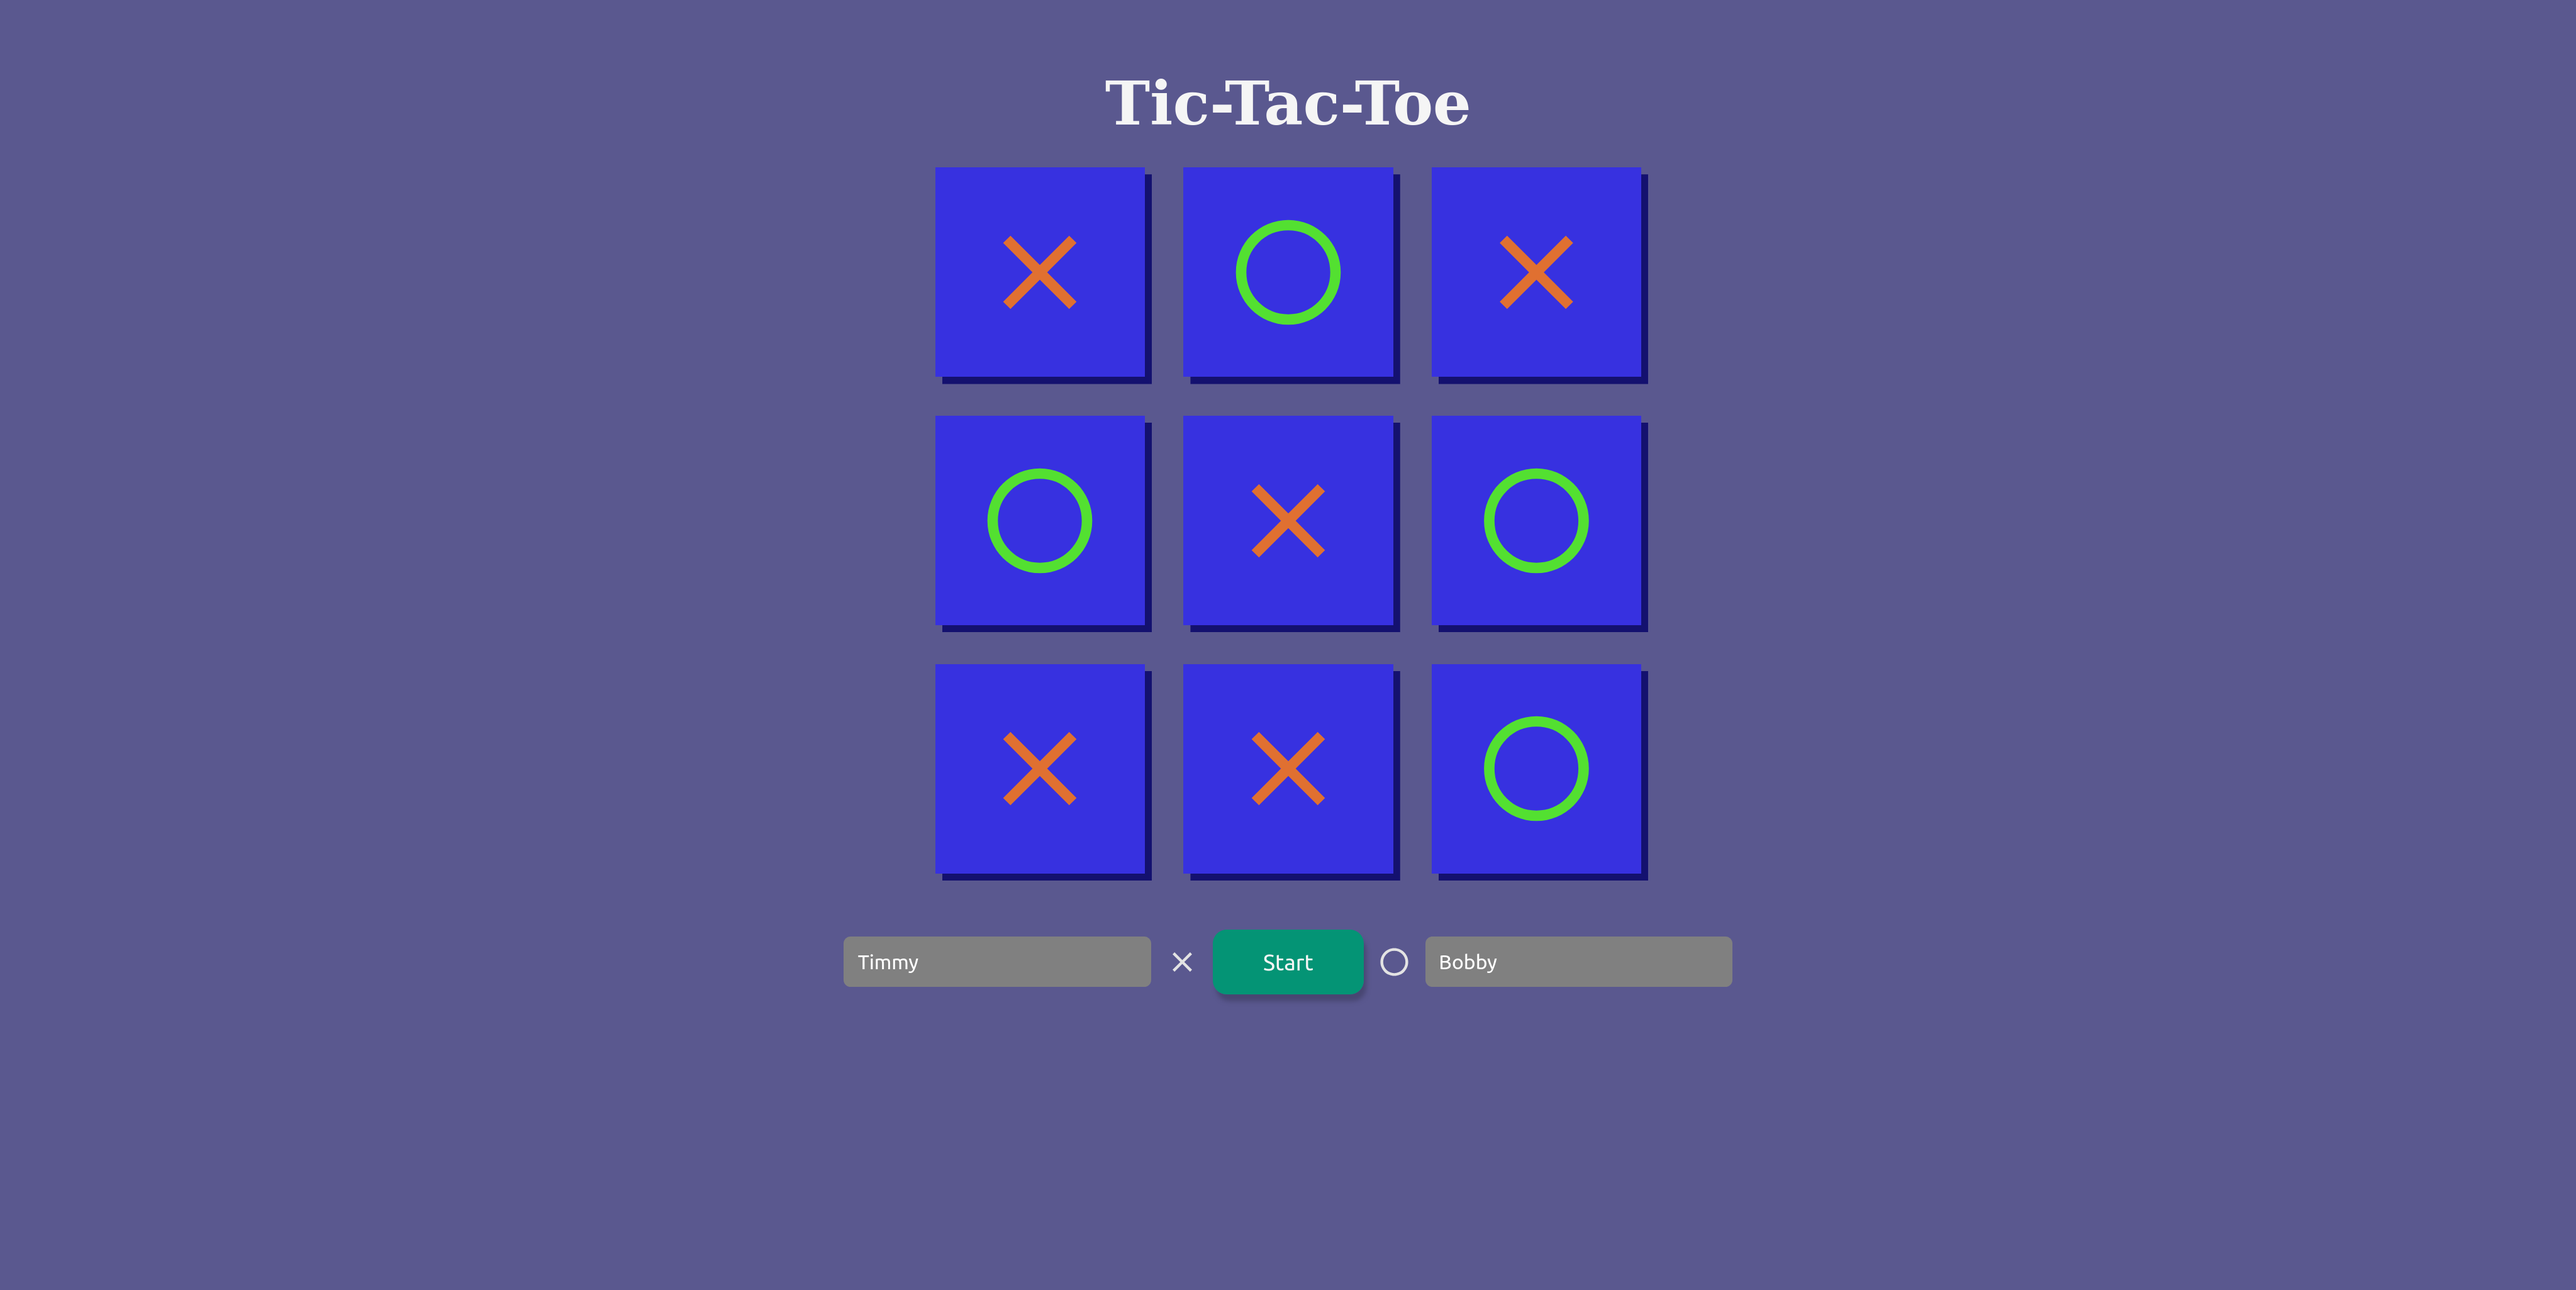
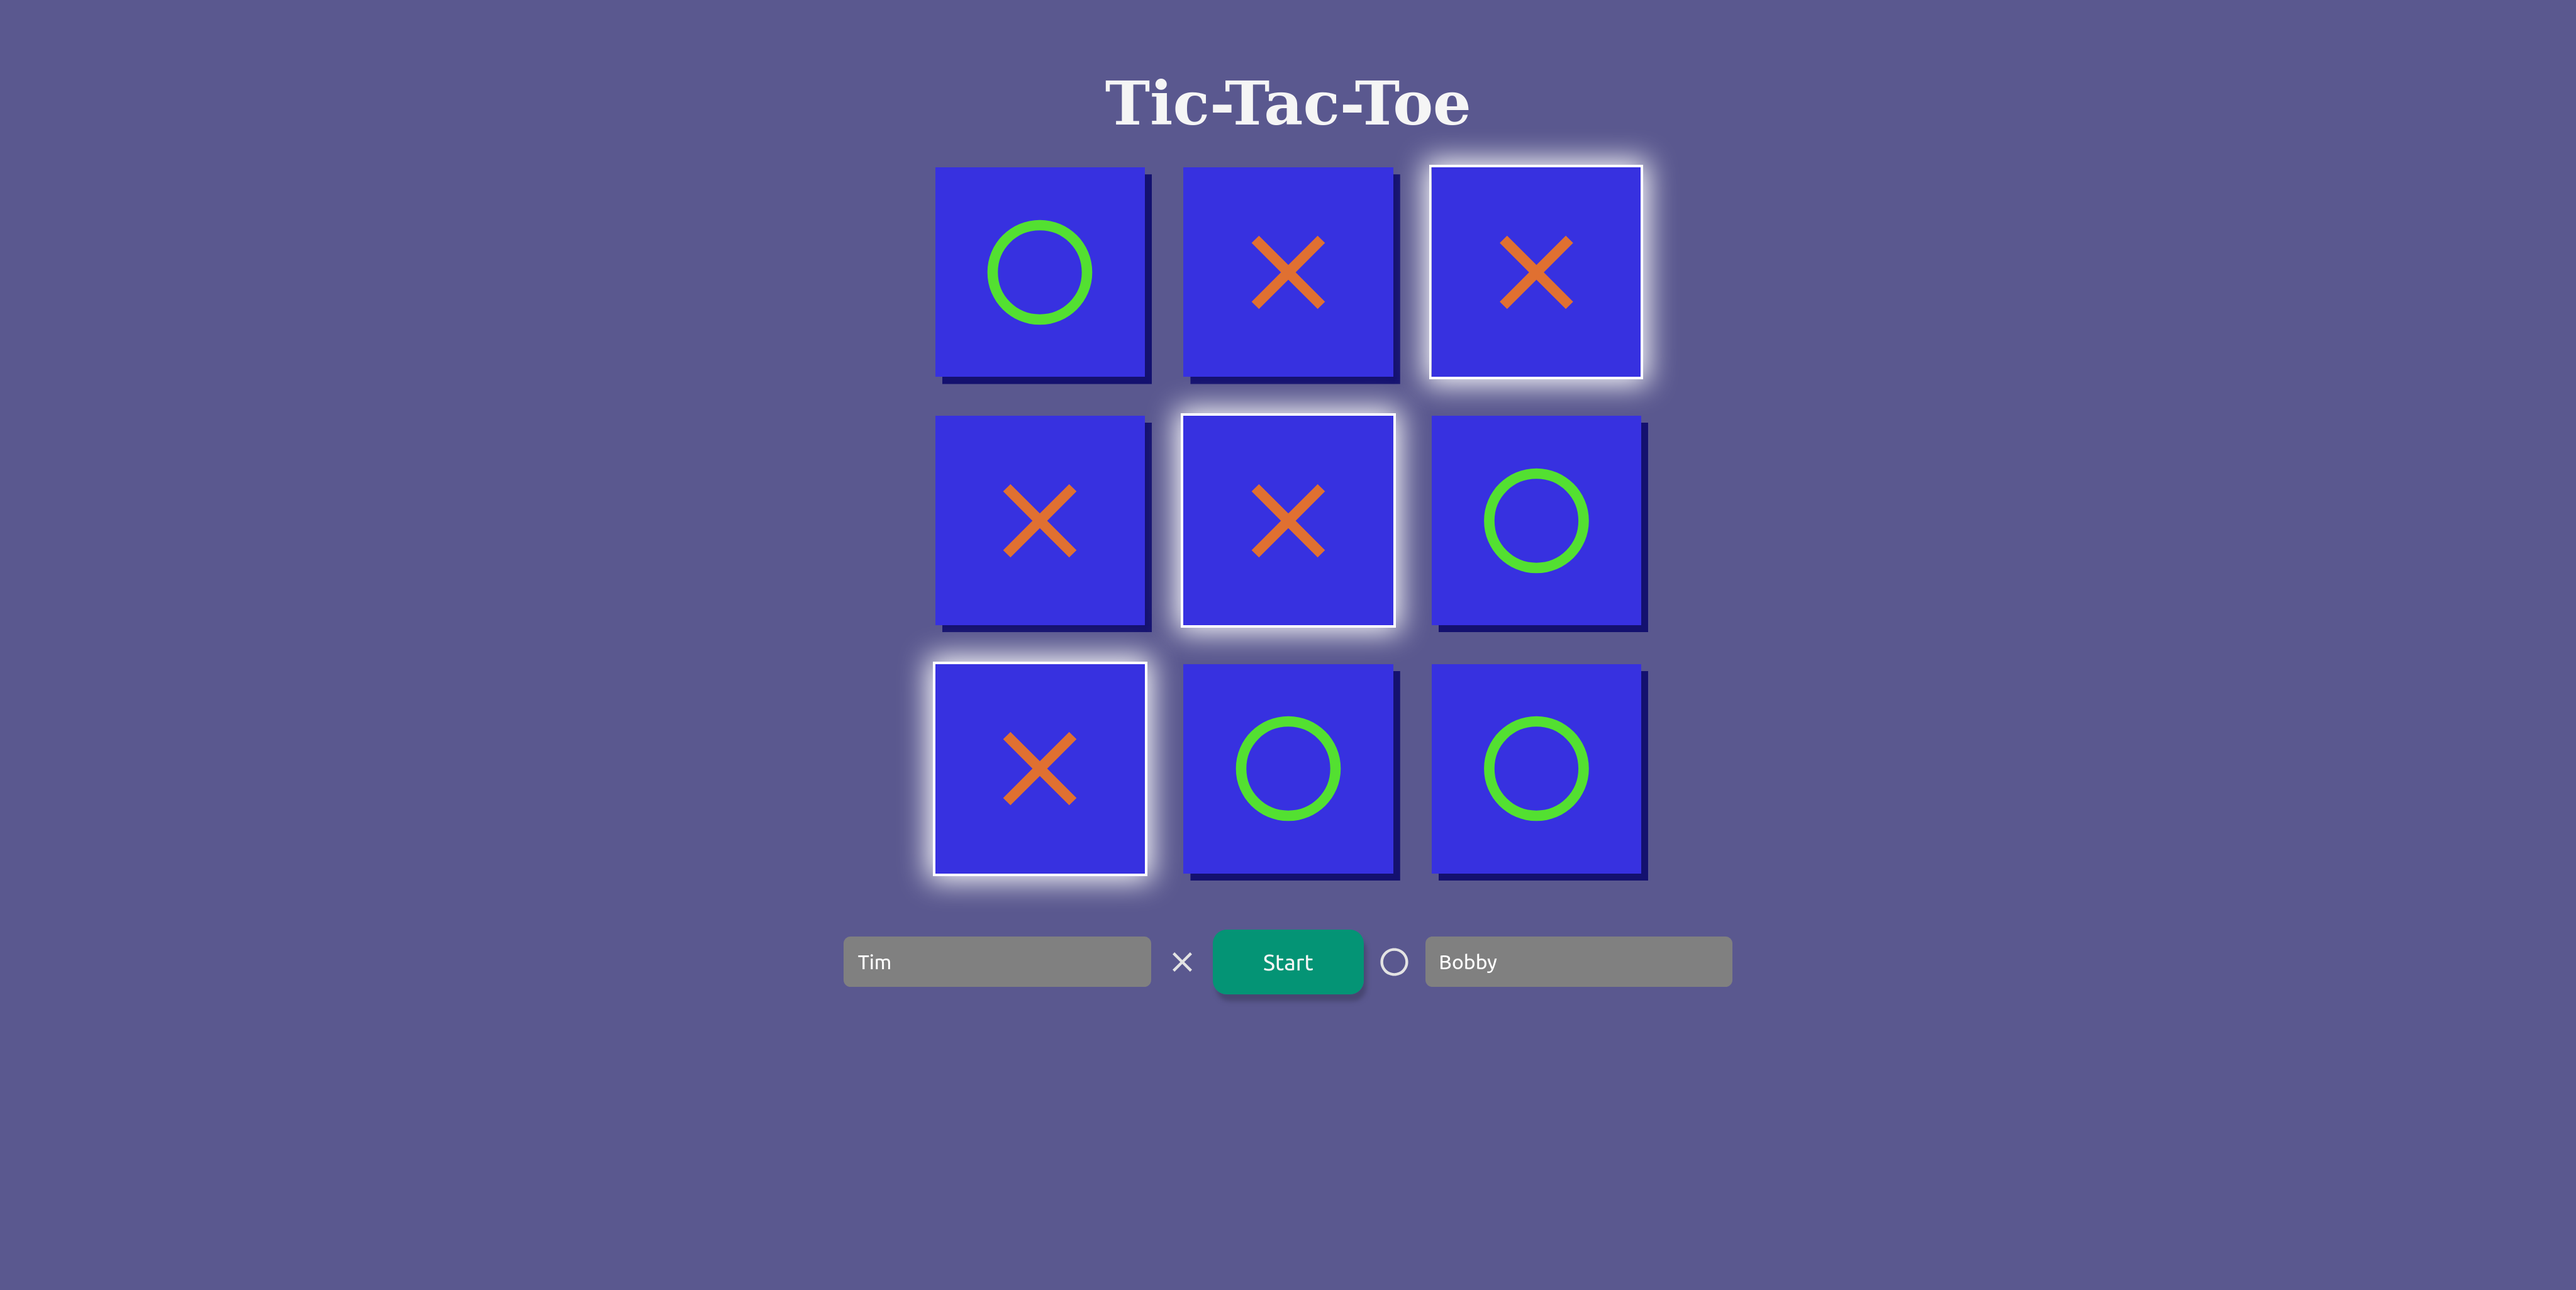
Add highlight to winning cells and update image in description

Changed region(s): [[0.3411, 0.0936, 0.6513, 0.7177], [0.3722, 0.156, 0.4342, 0.2496]]

diff --git a/index.js b/index.js
@@ -207,7 +207,7 @@ const displayController = (function(doc, game) {
 
     // public
     const markCell = function(pos, imgSymbol) {
-        let cell = doc.querySelector(`.cell[data-position="${pos}"]`);
+        let cell = gameContainer.querySelector(`.cell[data-position="${pos}"]`);
         cell.innerHTML = imgSymbol;
     };
 
@@ -243,17 +243,23 @@ const displayController = (function(doc, game) {
         // game is over
         disableAllCellInteractivity();
 
+        // display modal
         if (event.winner !== null){
             resultSymbol.innerHTML = event.winner.imgSymbol;
             resultHeading.textContent = `${event.winner.name} is the Winner!`;
             resultText.textContent = "Congratulation!";
+
+            // highlight winning cells
+            for (let pos of event.combination) {
+                let cell = gameContainer.querySelector(`.cell[data-position="${pos}"]`);
+                cell.classList.add("highlight-cell");
+            } 
         }
         else {
             resultSymbol.innerHTML = "";
             resultHeading.textContent = "Its a Draw!";
             resultText.textContent = "You are both winners. Congrats!";
         }
-
         resultModal.showModal();
 
         // unlock name inputs

diff --git a/styles.css b/styles.css
@@ -41,6 +41,11 @@ h1 {
     box-shadow: none;
 }
 
+.highlight-cell {
+    outline: 2px solid white;
+    box-shadow: 0 0 20px 5px white;
+}
+
 .open {
     cursor: pointer;
 }
